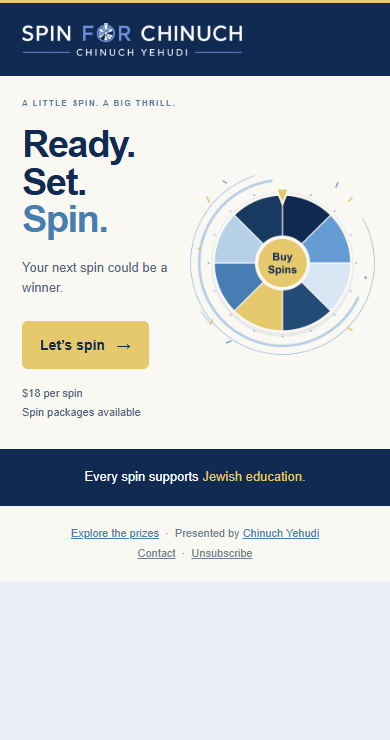
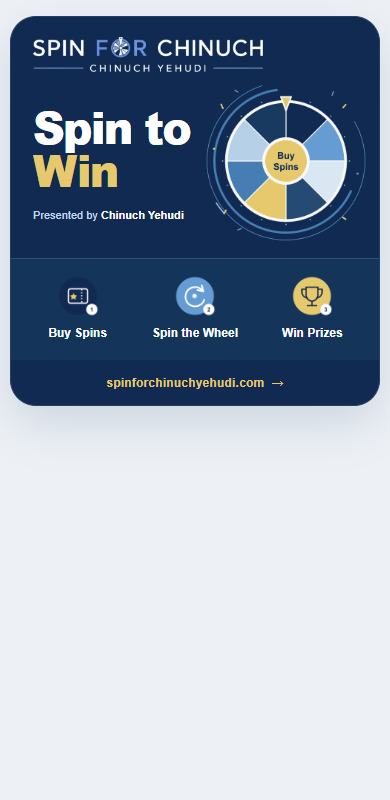
Add dashboard spending total and save email campaign updates

diff --git a/docs/email-campaign/a-little-spin/preview.html b/docs/email-campaign/a-little-spin/preview.html
@@ -1,23 +1,11 @@
-<!doctype html>
-<html lang="en"><head><meta charset="utf-8"><meta name="viewport" content="width=device-width,initial-scale=1"><meta name="color-scheme" content="light"><title>Ready. Set. Spin.</title>
-<style>body,table,td,a{-webkit-text-size-adjust:100%;-ms-text-size-adjust:100%}table{border-collapse:collapse}img{border:0;outline:none}@media only screen and (max-width:620px){.outer{padding:0!important}.brand{padding:20px 22px!important}.logo{width:220px!important}.copy{padding:22px 0 28px 22px!important}.heading{font-size:38px!important;letter-spacing:-1.5px!important}.kicker{font-size:8px!important;letter-spacing:1.4px!important}.sub{font-size:13px!important;line-height:1.5!important}.wheel{padding:0 4px 0 0!important}.button{padding:13px 17px!important;font-size:14px!important}.price{font-size:11px!important}.impact{padding:18px 22px!important;font-size:13px!important}.foot{padding:18px 22px!important}}</style></head>
-<body style="margin:0;background:#EAF0F5;font-family:Arial,Helvetica,sans-serif;color:#102A52;">
-<div style="display:none;max-height:0;overflow:hidden;opacity:0;font-size:1px;line-height:1px;mso-hide:all;">Your next spin could be a winner. Every spin supports Jewish education.</div>
-<table role="presentation" width="100%" cellpadding="0" cellspacing="0" border="0" bgcolor="#EAF0F5"><tr><td class="outer" align="center" style="padding:32px 12px;">
-<!--[if mso]><table role="presentation" width="960" align="center"><tr><td><![endif]-->
-<table role="presentation" width="100%" cellpadding="0" cellspacing="0" border="0" style="max-width:960px;background:#FAF8F3;">
-<tr><td class="brand" bgcolor="#102A52" style="padding:22px 42px;border-top:3px solid #E7C96D;"><a href="https://www.spinforchinuchyehudi.com"><img class="logo" src="campaign-logo.png" width="250" alt="Spin for Chinuch · Chinuch Yehudi" style="display:block;width:250px;max-width:100%;height:auto;"></a></td></tr>
-<tr><td><table role="presentation" width="100%" cellpadding="0" cellspacing="0" border="0"><tr>
-<td class="copy" width="46%" valign="middle" style="width:46%;padding:40px 0 42px 48px;">
-<p class="kicker" style="margin:0 0 16px;font-size:11px;line-height:1.5;letter-spacing:2.4px;font-weight:bold;color:#527CA4;">A LITTLE SPIN. A BIG THRILL.</p>
-<h1 class="heading" style="margin:0;font-size:78px;line-height:.98;letter-spacing:-3.7px;font-weight:700;">Ready. Set.<br><span style="color:#467EB3;">Spin.</span></h1>
-<p class="sub" style="margin:20px 0 24px;font-size:18px;line-height:1.6;color:#52657B;">Your next spin could be a winner.</p>
-<table role="presentation" cellpadding="0" cellspacing="0" border="0"><tr><td bgcolor="#E7C96D" style="border-radius:6px;mso-padding-alt:17px 30px;"><a class="button" href="https://www.spinforchinuchyehudi.com/buy-spins" style="display:inline-block;padding:17px 30px;border:1px solid #E7C96D;border-radius:6px;color:#102A52;font-size:17px;line-height:20px;font-weight:bold;text-decoration:none;">Let’s spin &nbsp; &rarr;</a></td></tr></table>
-<p class="price" style="margin:15px 0 0;font-size:13px;line-height:1.7;color:#52657B;">$18 per spin<br>Spin packages available</p>
-</td>
-<td class="wheel" width="54%" valign="middle" align="center" style="width:54%;padding:12px 12px 12px 0;"><a href="https://www.spinforchinuchyehudi.com/buy-spins"><img src="spin-wheel.png" width="490" alt="Spin the prize wheel for a chance to win." style="display:block;width:100%;max-width:490px;height:auto;"></a></td>
-</tr></table></td></tr>
-<tr><td class="impact" bgcolor="#102A52" style="padding:21px 42px;color:#FFFFFF;font-size:16px;line-height:1.6;text-align:center;">Every spin supports <span style="color:#E7C96D;">Jewish education.</span></td></tr>
-<tr><td class="foot" style="padding:19px 42px;text-align:center;font-size:11px;line-height:1.8;color:#6F7F90;"><a href="https://www.spinforchinuchyehudi.com/prizes" style="color:#467EB3;">Explore the prizes</a> &nbsp;·&nbsp; Presented by <a href="https://chinuchyehudiusa.org/" style="color:#467EB3;">Chinuch Yehudi</a><br><a href="mailto:spinforchinuchyehudi@gmail.com" style="color:#6F7F90;">Contact</a> &nbsp;·&nbsp; <a href="mailto:spinforchinuchyehudi@gmail.com?subject=Unsubscribe" style="color:#6F7F90;">Unsubscribe</a><br></td></tr>
-</table><!--[if mso]></td></tr></table><![endif]-->
-</td></tr></table></body></html>
+<!doctype html><html lang="en"><head><meta charset="utf-8"><meta name="viewport" content="width=device-width,initial-scale=1"><meta name="color-scheme" content="light"><meta name="supported-color-schemes" content="light"><title>Spin For Chinuch</title><style>body,table,td,a{-webkit-text-size-adjust:100%;-ms-text-size-adjust:100%}table{border-collapse:collapse}img{border:0;outline:none}@media only screen and (max-width:600px){.outer{padding:16px 10px!important}.brand{padding:20px 22px 0!important}.logo{width:230px!important}.copy{padding:26px 0 26px 22px!important}.heading{font-size:44px!important;letter-spacing:-1.7px!important}.presented{font-size:11px!important;margin:15px 0 0!important}.step-icon{width:42px!important;height:42px!important}.step-title{font-size:12px!important}.step-copy{font-size:10px!important}.steps{padding:16px 8px 18px!important}.wheel{padding:0 4px 8px 0!important}.website{padding:13px 16px!important}.website a{font-size:12px!important}}@media only screen and (max-width:350px){.heading{font-size:38px!important}.copy{padding-left:16px!important}}</style></head><body style="margin:0;padding:0;background:#EDF1F6;font-family:Arial,Helvetica,sans-serif;"><div style="display:none;max-height:0;overflow:hidden;opacity:0;font-size:1px;line-height:1px;mso-hide:all;">Buy a spin. Reveal your result. Every spin supports Jewish education.</div>
+<table role="presentation" width="100%" cellpadding="0" cellspacing="0" border="0" bgcolor="#EDF1F6"><tr><td class="outer" align="center" style="padding:28px 16px;">
+<table role="presentation" width="100%" cellpadding="0" cellspacing="0" border="0" bgcolor="#102A52" style="width:100%;max-width:720px;border-collapse:separate;border-spacing:0;border-radius:26px;overflow:hidden;border:1px solid #263F63;box-shadow:0 18px 46px #102A5224;">
+<tr><td class="brand" style="padding:24px 30px 0;border-radius:25px 25px 0 0;"><a href="https://www.spinforchinuchyehudi.com"><img class="logo" src="campaign-logo.png" width="230" alt="Spin for Chinuch - Chinuch Yehudi" style="display:block;width:230px;max-width:100%;height:auto;"></a></td></tr>
+<tr><td><table role="presentation" width="100%" cellpadding="0" cellspacing="0" border="0" style="table-layout:fixed;"><tr><td class="copy" width="48%" valign="middle" style="width:48%;padding:24px 0 26px 30px;">
+<h1 class="heading" style="margin:0;font-size:64px;line-height:.98;letter-spacing:-3px;font-weight:800;color:#FFFFFF;">Spin to<br><span style="color:#E7C96D;">Win</span></h1>
+<p class="presented" style="margin:18px 0 0;font-size:14px;line-height:1.5;color:#C4D8EE;">Presented by <a href="https://chinuchyehudiusa.org/" style="color:#FFFFFF;font-weight:bold;text-decoration:none;">Chinuch Yehudi</a></p>
+
+</td><td class="wheel" width="52%" valign="middle" align="center" style="width:52%;padding:4px 14px 12px 0;"><a href="https://www.spinforchinuchyehudi.com" aria-label="Visit Spin for Chinuch"><img src="spin-wheel.gif" width="300" alt="Buy Spins - visit Spin for Chinuch" style="display:block;width:100%;max-width:300px;height:auto;"></a></td></tr></table></td></tr>
+<tr><td class="steps" style="padding:18px 24px 20px;background:#15345A;border-top:1px solid #335071;"><table role="presentation" width="100%" cellpadding="0" cellspacing="0" border="0"><tr><td width="33%" align="center" valign="top" style="padding:0 4px;"><a href="https://www.spinforchinuchyehudi.com" style="color:#FFFFFF;text-decoration:none;"><img class="step-icon" src="step-buy.png" width="48" height="48" alt="" style="display:block;width:48px;height:48px;margin:0 auto;"><p class="step-title" style="margin:9px 0 0;font-size:15px;line-height:1.3;font-weight:bold;">Buy Spins</p></a></td><td width="33%" align="center" valign="top" style="padding:0 4px;"><a href="https://www.spinforchinuchyehudi.com" style="color:#FFFFFF;text-decoration:none;"><img class="step-icon" src="step-spin.png" width="48" height="48" alt="" style="display:block;width:48px;height:48px;margin:0 auto;"><p class="step-title" style="margin:9px 0 0;font-size:15px;line-height:1.3;font-weight:bold;">Spin the Wheel</p></a></td><td width="33%" align="center" valign="top" style="padding:0 4px;"><a href="https://www.spinforchinuchyehudi.com" style="color:#FFFFFF;text-decoration:none;"><img class="step-icon" src="step-win.png" width="48" height="48" alt="" style="display:block;width:48px;height:48px;margin:0 auto;"><p class="step-title" style="margin:9px 0 0;font-size:15px;line-height:1.3;font-weight:bold;">Win Prizes</p></a></td></tr></table></td></tr>
+<tr><td class="website" align="center" style="padding:15px 24px 17px;border-radius:0 0 25px 25px;"><a href="https://www.spinforchinuchyehudi.com" style="display:inline-block;font-family:Arial,Helvetica,sans-serif;font-size:15px;line-height:1.5;font-weight:600;letter-spacing:.2px;color:#E7C96D;text-decoration:none;">spinforchinuchyehudi.com &nbsp;&rarr;</a></td></tr></table></td></tr></table></body></html>

diff --git a/docs/email-campaign/a-little-spin/email.html b/docs/email-campaign/a-little-spin/email.html
@@ -1,23 +1,11 @@
-<!doctype html>
-<html lang="en"><head><meta charset="utf-8"><meta name="viewport" content="width=device-width,initial-scale=1"><meta name="color-scheme" content="light"><title>Ready. Set. Spin.</title>
-<style>body,table,td,a{-webkit-text-size-adjust:100%;-ms-text-size-adjust:100%}table{border-collapse:collapse}img{border:0;outline:none}@media only screen and (max-width:620px){.outer{padding:0!important}.brand{padding:20px 22px!important}.logo{width:220px!important}.copy{padding:22px 0 28px 22px!important}.heading{font-size:38px!important;letter-spacing:-1.5px!important}.kicker{font-size:8px!important;letter-spacing:1.4px!important}.sub{font-size:13px!important;line-height:1.5!important}.wheel{padding:0 4px 0 0!important}.button{padding:13px 17px!important;font-size:14px!important}.price{font-size:11px!important}.impact{padding:18px 22px!important;font-size:13px!important}.foot{padding:18px 22px!important}}</style></head>
-<body style="margin:0;background:#EAF0F5;font-family:Arial,Helvetica,sans-serif;color:#102A52;">
-<div style="display:none;max-height:0;overflow:hidden;opacity:0;font-size:1px;line-height:1px;mso-hide:all;">Your next spin could be a winner. Every spin supports Jewish education.</div>
-<table role="presentation" width="100%" cellpadding="0" cellspacing="0" border="0" bgcolor="#EAF0F5"><tr><td class="outer" align="center" style="padding:32px 12px;">
-<!--[if mso]><table role="presentation" width="960" align="center"><tr><td><![endif]-->
-<table role="presentation" width="100%" cellpadding="0" cellspacing="0" border="0" style="max-width:960px;background:#FAF8F3;">
-<tr><td class="brand" bgcolor="#102A52" style="padding:22px 42px;border-top:3px solid #E7C96D;"><a href="https://www.spinforchinuchyehudi.com"><img class="logo" src="cid:campaign-logo" width="250" alt="Spin for Chinuch · Chinuch Yehudi" style="display:block;width:250px;max-width:100%;height:auto;"></a></td></tr>
-<tr><td><table role="presentation" width="100%" cellpadding="0" cellspacing="0" border="0"><tr>
-<td class="copy" width="46%" valign="middle" style="width:46%;padding:40px 0 42px 48px;">
-<p class="kicker" style="margin:0 0 16px;font-size:11px;line-height:1.5;letter-spacing:2.4px;font-weight:bold;color:#527CA4;">A LITTLE SPIN. A BIG THRILL.</p>
-<h1 class="heading" style="margin:0;font-size:78px;line-height:.98;letter-spacing:-3.7px;font-weight:700;">Ready. Set.<br><span style="color:#467EB3;">Spin.</span></h1>
-<p class="sub" style="margin:20px 0 24px;font-size:18px;line-height:1.6;color:#52657B;">Your next spin could be a winner.</p>
-<table role="presentation" cellpadding="0" cellspacing="0" border="0"><tr><td bgcolor="#E7C96D" style="border-radius:6px;mso-padding-alt:17px 30px;"><a class="button" href="https://www.spinforchinuchyehudi.com/buy-spins" style="display:inline-block;padding:17px 30px;border:1px solid #E7C96D;border-radius:6px;color:#102A52;font-size:17px;line-height:20px;font-weight:bold;text-decoration:none;">Let’s spin &nbsp; &rarr;</a></td></tr></table>
-<p class="price" style="margin:15px 0 0;font-size:13px;line-height:1.7;color:#52657B;">$18 per spin<br>Spin packages available</p>
-</td>
-<td class="wheel" width="54%" valign="middle" align="center" style="width:54%;padding:12px 12px 12px 0;"><a href="https://www.spinforchinuchyehudi.com/buy-spins"><img src="cid:spin-wheel" width="490" alt="Spin the prize wheel for a chance to win." style="display:block;width:100%;max-width:490px;height:auto;"></a></td>
-</tr></table></td></tr>
-<tr><td class="impact" bgcolor="#102A52" style="padding:21px 42px;color:#FFFFFF;font-size:16px;line-height:1.6;text-align:center;">Every spin supports <span style="color:#E7C96D;">Jewish education.</span></td></tr>
-<tr><td class="foot" style="padding:19px 42px;text-align:center;font-size:11px;line-height:1.8;color:#6F7F90;"><a href="https://www.spinforchinuchyehudi.com/prizes" style="color:#467EB3;">Explore the prizes</a> &nbsp;·&nbsp; Presented by <a href="https://chinuchyehudiusa.org/" style="color:#467EB3;">Chinuch Yehudi</a><br><a href="mailto:spinforchinuchyehudi@gmail.com" style="color:#6F7F90;">Contact</a> &nbsp;·&nbsp; <a href="{{unsubscribe_url}}" style="color:#6F7F90;">Unsubscribe</a><br>{{mailing_address}}</td></tr>
-</table><!--[if mso]></td></tr></table><![endif]-->
-</td></tr></table></body></html>
+<!doctype html><html lang="en"><head><meta charset="utf-8"><meta name="viewport" content="width=device-width,initial-scale=1"><meta name="color-scheme" content="light"><meta name="supported-color-schemes" content="light"><title>Spin For Chinuch</title><style>body,table,td,a{-webkit-text-size-adjust:100%;-ms-text-size-adjust:100%}table{border-collapse:collapse}img{border:0;outline:none}@media only screen and (max-width:600px){.outer{padding:16px 10px!important}.brand{padding:20px 22px 0!important}.logo{width:230px!important}.copy{padding:26px 0 26px 22px!important}.heading{font-size:44px!important;letter-spacing:-1.7px!important}.presented{font-size:11px!important;margin:15px 0 0!important}.step-icon{width:42px!important;height:42px!important}.step-title{font-size:12px!important}.step-copy{font-size:10px!important}.steps{padding:16px 8px 18px!important}.wheel{padding:0 4px 8px 0!important}.website{padding:13px 16px!important}.website a{font-size:12px!important}}@media only screen and (max-width:350px){.heading{font-size:38px!important}.copy{padding-left:16px!important}}</style></head><body style="margin:0;padding:0;background:#EDF1F6;font-family:Arial,Helvetica,sans-serif;"><div style="display:none;max-height:0;overflow:hidden;opacity:0;font-size:1px;line-height:1px;mso-hide:all;">Buy a spin. Reveal your result. Every spin supports Jewish education.</div>
+<table role="presentation" width="100%" cellpadding="0" cellspacing="0" border="0" bgcolor="#EDF1F6"><tr><td class="outer" align="center" style="padding:28px 16px;">
+<table role="presentation" width="100%" cellpadding="0" cellspacing="0" border="0" bgcolor="#102A52" style="width:100%;max-width:720px;border-collapse:separate;border-spacing:0;border-radius:26px;overflow:hidden;border:1px solid #263F63;box-shadow:0 18px 46px #102A5224;">
+<tr><td class="brand" style="padding:24px 30px 0;border-radius:25px 25px 0 0;"><a href="https://www.spinforchinuchyehudi.com"><img class="logo" src="cid:campaign-logo" width="230" alt="Spin for Chinuch - Chinuch Yehudi" style="display:block;width:230px;max-width:100%;height:auto;"></a></td></tr>
+<tr><td><table role="presentation" width="100%" cellpadding="0" cellspacing="0" border="0" style="table-layout:fixed;"><tr><td class="copy" width="48%" valign="middle" style="width:48%;padding:24px 0 26px 30px;">
+<h1 class="heading" style="margin:0;font-size:64px;line-height:.98;letter-spacing:-3px;font-weight:800;color:#FFFFFF;">Spin to<br><span style="color:#E7C96D;">Win</span></h1>
+<p class="presented" style="margin:18px 0 0;font-size:14px;line-height:1.5;color:#C4D8EE;">Presented by <a href="https://chinuchyehudiusa.org/" style="color:#FFFFFF;font-weight:bold;text-decoration:none;">Chinuch Yehudi</a></p>
+
+</td><td class="wheel" width="52%" valign="middle" align="center" style="width:52%;padding:4px 14px 12px 0;"><a href="https://www.spinforchinuchyehudi.com" aria-label="Visit Spin for Chinuch"><img src="cid:spin-wheel" width="300" alt="Buy Spins - visit Spin for Chinuch" style="display:block;width:100%;max-width:300px;height:auto;"></a></td></tr></table></td></tr>
+<tr><td class="steps" style="padding:18px 24px 20px;background:#15345A;border-top:1px solid #335071;"><table role="presentation" width="100%" cellpadding="0" cellspacing="0" border="0"><tr><td width="33%" align="center" valign="top" style="padding:0 4px;"><a href="https://www.spinforchinuchyehudi.com" style="color:#FFFFFF;text-decoration:none;"><img class="step-icon" src="cid:step-buy" width="48" height="48" alt="" style="display:block;width:48px;height:48px;margin:0 auto;"><p class="step-title" style="margin:9px 0 0;font-size:15px;line-height:1.3;font-weight:bold;">Buy Spins</p></a></td><td width="33%" align="center" valign="top" style="padding:0 4px;"><a href="https://www.spinforchinuchyehudi.com" style="color:#FFFFFF;text-decoration:none;"><img class="step-icon" src="cid:step-spin" width="48" height="48" alt="" style="display:block;width:48px;height:48px;margin:0 auto;"><p class="step-title" style="margin:9px 0 0;font-size:15px;line-height:1.3;font-weight:bold;">Spin the Wheel</p></a></td><td width="33%" align="center" valign="top" style="padding:0 4px;"><a href="https://www.spinforchinuchyehudi.com" style="color:#FFFFFF;text-decoration:none;"><img class="step-icon" src="cid:step-win" width="48" height="48" alt="" style="display:block;width:48px;height:48px;margin:0 auto;"><p class="step-title" style="margin:9px 0 0;font-size:15px;line-height:1.3;font-weight:bold;">Win Prizes</p></a></td></tr></table></td></tr>
+<tr><td class="website" align="center" style="padding:15px 24px 17px;border-radius:0 0 25px 25px;"><a href="https://www.spinforchinuchyehudi.com" style="display:inline-block;font-family:Arial,Helvetica,sans-serif;font-size:15px;line-height:1.5;font-weight:600;letter-spacing:.2px;color:#E7C96D;text-decoration:none;">spinforchinuchyehudi.com &nbsp;&rarr;</a></td></tr></table></td></tr></table></body></html>

diff --git a/app/admin/page.tsx b/app/admin/page.tsx
@@ -1,7 +1,7 @@
 "use client";
 
 import { useEffect, useState } from "react";
-import { CircleDashed, Gift, Shield, Ticket, Trophy, Users } from "lucide-react";
+import { CircleDashed, DollarSign, Gift, Shield, Ticket, Trophy, Users } from "lucide-react";
 import { supabase } from "@/lib/supabase";
 import ActionCard from "@/components/ui/ActionCard";
 import StatCard from "@/components/ui/StatCard";
@@ -9,42 +9,46 @@ import StatCard from "@/components/ui/StatCard";
 type AdminStats = {
   users: number;
   purchasedSpins: number | null;
+  totalSpentCents: number | null;
   activePrizes: number;
   winners: number;
 };
 
-async function loadPurchasedSpins() {
+async function loadPaymentTotals() {
   const pageSize = 1000;
   let total = 0;
+  let totalSpentCents = 0;
   // Read every payment, including purchases beyond Supabase's row limit.
   for (let offset = 0; ;) {
     const { data, error, count } = await supabase
       .from("payment_logs")
-      .select("spins", { count: "exact" })
+      .select("spins,amount", { count: "exact" })
       .order("payment_intent_id")
       .range(offset, offset + pageSize - 1);
     if (error) throw error;
     total += (data ?? []).reduce((sum, payment) => sum + payment.spins, 0);
+    totalSpentCents += (data ?? []).reduce((sum, payment) => sum + payment.amount, 0);
     offset += data?.length ?? 0;
-    if (!data?.length || (count !== null && offset >= count)) return total;
+    if (!data?.length || (count !== null && offset >= count)) return { purchasedSpins: total, totalSpentCents };
   }
 }
 
 export default function AdminPage() {
-  const [stats, setStats] = useState<AdminStats>({ users: 0, purchasedSpins: 0, activePrizes: 0, winners: 0 });
+  const [stats, setStats] = useState<AdminStats>({ users: 0, purchasedSpins: 0, totalSpentCents: 0, activePrizes: 0, winners: 0 });
   const [loading, setLoading] = useState(true);
 
   useEffect(() => {
     async function loadStats() {
-      const [users, purchasedSpins, activePrizes, winners] = await Promise.all([
+      const [users, paymentTotals, activePrizes, winners] = await Promise.all([
         supabase.from("profiles").select("id", { count: "exact", head: true }),
-        loadPurchasedSpins().catch(() => null),
+        loadPaymentTotals().catch(() => null),
         supabase.from("prizes").select("id", { count: "exact", head: true }).eq("active", true),
         supabase.from("wins").select("id", { count: "exact", head: true }),
       ]);
       setStats({
         users: users.count ?? 0,
-        purchasedSpins,
+        purchasedSpins: paymentTotals?.purchasedSpins ?? null,
+        totalSpentCents: paymentTotals?.totalSpentCents ?? null,
         activePrizes: activePrizes.count ?? 0,
         winners: winners.count ?? 0,
       });
@@ -69,9 +73,10 @@ export default function AdminPage() {
           </div>
         </section>
 
-        <section className="grid gap-5 sm:grid-cols-2 xl:grid-cols-4" aria-busy={loading}>
+        <section className="grid gap-5 sm:grid-cols-2 xl:grid-cols-3 2xl:grid-cols-5" aria-busy={loading}>
           <StatCard label="Registered Users" value={loading ? "—" : stats.users} icon={<Users />} />
           <StatCard label="Spins Purchased" value={loading ? "—" : stats.purchasedSpins ?? "Unavailable"} icon={<Ticket />} />
+          <StatCard label="Total Spent" value={loading ? "—" : stats.totalSpentCents === null ? "Unavailable" : new Intl.NumberFormat("en-US", { style: "currency", currency: "USD", maximumFractionDigits: 2 }).format(stats.totalSpentCents / 100)} icon={<DollarSign />} />
           <StatCard label="Active Prizes" value={loading ? "—" : stats.activePrizes} icon={<Trophy />} />
           <StatCard label="Recorded Wins" value={loading ? "—" : stats.winners} icon={<Ticket />} />
         </section>

diff --git a/docs/email-campaign/a-little-spin/README.md b/docs/email-campaign/a-little-spin/README.md
@@ -1,20 +1,20 @@
-# Ready. Set. Spin.
+# Spin to Win
 
-Status: revised landscape draft awaiting approval. The earlier story draft was test-sent; this revision has not been sent. Application sending behavior is unchanged.
+Status: revised campaign design test-sent to shoshanbernstein@gmail.com through Resend. Mailing-list approval remains pending. Application sending behavior is unchanged.
 
-Subject: **Ready. Set. Spin.**
+Subject: **Spin For Chinuch**
 
-Preheader: Your next spin could be a winner. Every spin supports Jewish education.
+Preheader: Buy a spin. Reveal your result. Every spin supports Jewish education.
 
-Open `preview.html` for the revised landscape design: a short headline beside a large wheel, one purchase button, pricing, and one impact line. The two columns remain side by side on phones. The design follows the current cream, navy, blue, and gold landing page.
+Open `preview.html` for the full-width navy design. The outer gutters and maximum container width are removed. The wheel has shaded segments, gift and trophy illustrations, a gold SPIN hub, and refined orbital details. Inbox-sized typography and a unified blue steps strip improve the visual hierarchy. Three matching numbered vector icons connect the steps with arrows on one continuous navy field. The hero columns remain side by side on phones; all requested copy removals are preserved.
 
 ## Files
 
-- `email.html`: email template using inline styles, presentation tables, an Outlook width fallback, and two CID images.
+- `email.html`: email template using inline styles, presentation tables, a fluid full-width layout and five CID images.
 - `email.txt`: equivalent plain-text content.
 - `draft.json`: subject, preheader, reply address, and image attachment manifest. This is draft metadata, not a Resend API request.
 - `campaign-logo.png`: existing campaign branding.
-- `spin-wheel.svg` and `.png`: campaign wheel graphic used by this revision. The earlier spin-to-possibility artwork remains as an unused prior draft asset.
+- `spin-wheel.svg` and `.png`: navy campaign wheel graphic used by this revision. `step-buy.svg`, `step-spin.svg`, and `step-win.svg` are the editable sources for the redesigned step PNGs. The earlier spin-to-possibility artwork remains as an unused prior draft asset.
 - `preview.html`, `preview-desktop.png`, and `preview-mobile.png`: review artifacts.
 
 ## Sending after approval
@@ -23,7 +23,35 @@ Use the verified campaign sender with display name `Spin for Chinuch` and reply-
 
 For an inline-image send, read each PNG as a Buffer and use its `contentId` from `draft.json` in Resend's attachments. For a Resend Broadcast, upload the images to publicly accessible hosting and replace the CID image sources with their HTTPS URLs if the broadcast workflow does not support attachments.
 
-Before sending, replace `{{unsubscribe_url}}` with the recipient's working unsubscribe link (or the appropriate Resend Broadcast unsubscribe variable), and `{{mailing_address}}` with the organization's mailing address in both HTML and text. The browser preview omits the address and uses an email unsubscribe link solely for visual review. Apply recipient exclusions and unsubscribe suppression when the approved contact list is supplied. Do not send literal placeholders.
+This review draft has no unsubscribe or mailing-address placeholders. Sending to a contact list is a separate step after approval; configure working opt-out handling in that delivery workflow and honor recipient exclusions. The inactive draft link has been removed.
 
-Verified locally in headless Edge at 1100px and 390px: images load, no horizontal overflow, and CTA links target the campaign's purchase page. Screenshots were visually reviewed. Actual inbox rendering and a Resend test delivery of this revision remain for the sending stage.
+Verified locally in headless Edge at 1440px, 650px, 390px, and 320px: images load, no horizontal overflow, and all campaign links target the landing page. Screenshots were visually reviewed. The revised test was accepted by Resend; actual inbox appearance remains for user review.
 
+
+
+
+Latest revision: campaign logo, wheel, CTA, step links, and campaign footer link all open https://www.spinforchinuchyehudi.com. CTA reads Take a spin. Typography is calmer; confetti and extra orbit accents are removed, and the steps share the continuous navy background.
+
+Current direction: oversized gold Georgia italic Win lettering, restrained navy hero, squared gold CTA, and a contrasting cream steps band. All campaign links still open the landing page. Desktop and mobile previews were regenerated and checked; a test is sent after each revision as requested.
+
+Latest website-aligned revision: cream hero and steps share one continuous background, with navy and soft-blue sans-serif headline text and a rounded gold CTA. The wheel is now based directly on components/landing/HeroWheel.tsx: flat brand-color segments, smaller gift hub, subtle halo, and light orbital rings. Prior oversized SPIN hub and prize illustrations are removed. Campaign links remain on the landing page; local checks cover 1440, 650, 390, and 320px.
+
+Animated revision: spin-wheel.gif replaces the static wheel in the email attachment manifest and browser preview. Its 40 frames animate only the colored segments; the gift hub, pointer, text, and CTA remain steady. A 4.91-second loop spins, eases to a stop, and pauses; file size is about 197 KiB. The first frame is a complete static composition. spin-wheel.png remains the static source/fallback artifact. Animation playback depends on inbox support and settings; see https://support.microsoft.com/en-us/outlook/the-animated-graphic-in-my-e-mail-message-doesn-t-work .
+
+Animated steps revision: step-buy.gif gently bounces and tilts the ticket, step-spin.gif turns the arrow, and step-win.gif lifts the trophy with small gold sparkles. Motion is staggered across the three steps in matching 4.91-second cycles. Text, numbers, logo, and CTA stay steady. The three added GIFs total about 44 KiB; first frames remain complete. The attachment manifest and browser preview use the GIFs, while SVG and PNG sources remain available.
+
+Center-button revision: the separate CTA was removed. The animated wheel now has a stationary gold Take a spin center, with the whole wheel image linking to the landing page. The center label is included in every GIF frame; the link and accessible alt text belong to the surrounding HTML anchor. All four animations remain active.
+
+Compact-view revision: reduced logo, wheel maximum size, step icons, and vertical padding while preserving animations and center CTA. Measured complete email height: 494px at 1440px wide, 493px at 650px, 413px at 390px, and 389px at 320px. Layout checks assert a maximum content height of 520px. Actual visible inbox area depends on the mail app and device.
+
+Centered layout revision: headline is above the wheel, with a compact steps row below. The center CTA is a wide gold pill with gradient, inset highlight, and lower edge for depth, with a single-line Take a spin arrow label. The complete wheel remains linked to the landing page. Animation rotates only segments, keeping the CTA steady. Measured complete heights: 512px desktop, 510px inbox width, 503px mobile. All content passes the 520px layout check.
+
+Current landscape card: centered 760px maximum width on a white canvas, navy brand header, headline and three animated steps grouped on the left, animated wheel with large stationary gold CTA on the right. On phones the same two-column arrangement remains compact. Measured content height is 486px desktop, 439px inbox width, and 348px at 390px. Subject is exactly Spin For Chinuch, including test sends, with no TEST prefix. All campaign links open the landing page.
+
+Reference-based revision: centered 640px card on a pale-blue canvas. Cream body uses the requested A little spin. A world of possibility. headline, one short supporting line, and a unified wheel-to-education animation with a dotted connector and gently pulsing heart. The gold center CTA remains stationary and the entire illustration links to the landing page. Three animated step icons remain below. The attachment manifest uses wheel-to-education.gif instead of spin-wheel.gif. Heights: 516px desktop, 512px inbox width, 442px mobile. Subject remains exactly Spin For Chinuch.
+
+Latest approved direction reference: navy landscape card, max-width 900px, white Spin to / gold Win headline on the left, Presented by Chinuch Yehudi, three original step graphics and short descriptions, large wheel on the right. Wheel source is the original navy spin-to-win-wheel-landscape.svg with Buy Spins center. Only the wheel segments animate; the pointer and center label remain steady. The linked GIF opens https://www.spinforchinuchyehudi.com. Manifest uses one wheel GIF and four static PNGs. Subject remains Spin For Chinuch. Heights verified at 518px desktop, 466px inbox width, and 347px mobile.
+
+Visible website revision: tightened the navy card to 820px maximum width, aligned the logo and headline to a consistent left inset, balanced the wheel sizing, and enlarged desktop step labels slightly. A dedicated footer separated by a fine rule visibly displays spinforchinuchyehudi.com with a link to the canonical landing page. The wheel remains animated and linked. Subject: Spin For Chinuch.
+
+Rounded popup revision: 720px maximum-width navy card with 26px rounded corners, a fine border, and a soft shadow on a pale-blue canvas. Headline and animated wheel form the hero; the three steps now occupy a full-width blue band with larger, consistently aligned icons and labels. The visible website link anchors the rounded footer. Current measured heights: 570px desktop, 568px inbox width, 425px mobile. Rounded corners and shadows depend on email-client CSS support. Subject remains Spin For Chinuch.
